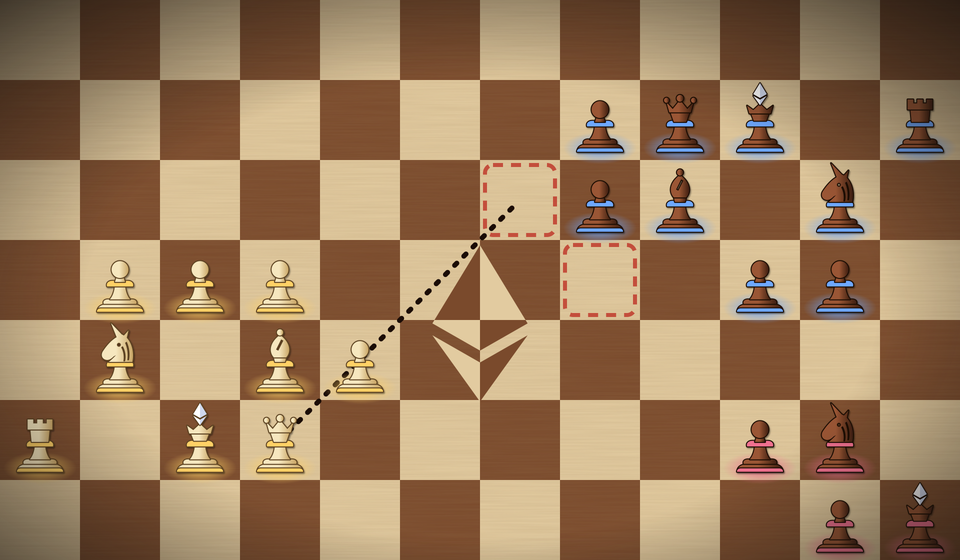
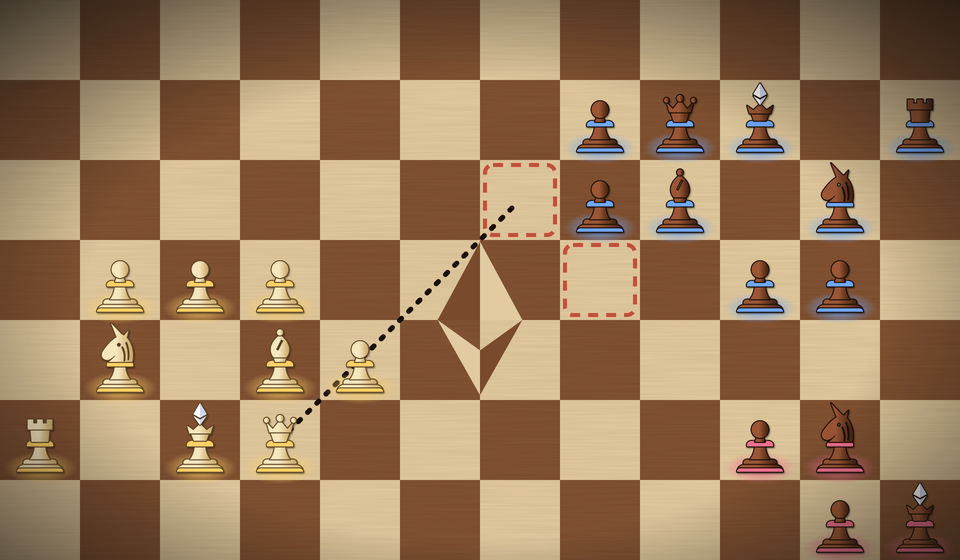
brand: the inlay is four triangles, one per square, as on the Devcon board
The real marquetry is simpler than the facetted logo: a diamond split down the middle over a chevron split the same way, each triangle inside one square and in the opposite wood. Mock, card and landing hero all use the same four triangles now.

Changed region(s): [[0.4375, 0.5464, 0.5625, 0.6982]]

diff --git a/landing/index.html b/landing/index.html
@@ -18,13 +18,11 @@
 	<body>
 		<header class="hero">
 			<div class="board" aria-hidden="true">
-				<!-- The Devcon inlay: the Ethereum logo, upright, across the four squares meeting at the
-				     board's centre, maple where it crosses rosewood and rosewood where it crosses maple. -->
+				<!-- The Devcon inlay: the Ethereum logo as four triangles, one in each of the squares meeting at
+				     the board's centre, maple on rosewood and rosewood on maple. -->
 				<svg class="inlay" viewBox="-1 -1 2 2">
-					<clipPath id="onMaple"><rect x="0" y="-1" width="1" height="1" /><rect x="-1" y="0" width="1" height="1" /></clipPath>
-					<clipPath id="onRosewood"><rect x="-1" y="-1" width="1" height="1" /><rect x="0" y="0" width="1" height="1" /></clipPath>
-					<g clip-path="url(#onMaple)" class="rosewood"><g transform="scale(0.0205) translate(-128 -48)"><path d="M128 4 L155 48 L128 63 L101 48 Z" /><path d="M101 55 L128 70 L155 55 L128 92 Z" /></g></g>
-					<g clip-path="url(#onRosewood)" class="maple"><g transform="scale(0.0205) translate(-128 -48)"><path d="M128 4 L155 48 L128 63 L101 48 Z" /><path d="M101 55 L128 70 L155 55 L128 92 Z" /></g></g>
+					<path class="maple" d="M0.0 -0.98 L-0.53 0.0 L0.0 0.0 Z" /><path class="rosewood" d="M0.0 -0.98 L0.53 0.0 L0.0 0.0 Z" />
+					<path class="rosewood" d="M0.0 0.94 L-0.53 0.0 L0.0 0.38 Z" /><path class="maple" d="M0.0 0.94 L0.53 0.0 L0.0 0.38 Z" />
 				</svg>
 			</div>
 			<nav class="top">

diff --git a/assets/brand/game/pieces.py b/assets/brand/game/pieces.py
@@ -115,6 +115,12 @@ def flat(kind):
 
 
 S = 80
+INLAY = {
+    'tl': [(0, -0.98), (-0.53, 0), (0, 0)],
+    'tr': [(0, -0.98), (0.53, 0), (0, 0)],
+    'bl': [(0, 0.94), (-0.53, 0), (0, 0.38)],
+    'br': [(0, 0.94), (0.53, 0), (0, 0.38)],
+}
 LIGHT, DARK = '#e2cba0', '#7a4a2c'  # maple and rosewood, sampled from the Devcon board
 YOU, THEM, THIRD = '#ffd166', '#6ea8ff', '#ef6f8f'
 
@@ -126,16 +132,17 @@ def board(cols, rows, origin=None):
             out.append(f'<rect x="{c*S}" y="{r*S}" width="{S}" height="{S}" fill="{LIGHT if (r+c)%2==0 else DARK}"/>')
     out.append(f'<rect width="{cols*S}" height="{rows*S}" filter="url(#grain)"/>')
     if origin:
+        # The Devcon inlay, as on the board: four triangles, one per square
+        # around the corner where they meet, each in the opposite wood to its
+        # square (inverted marquetry). Square units relative to the corner,
+        # logo upright: a diamond split down the middle over a chevron.
         OX, OY = origin
-        LOGO = ''.join(f'<path d="{d}"/>' for d in PRISM)
-        place = f'translate({OX} {OY}) scale(1.7) translate(-128 -48)'
-        four = [(OX - S, OY - S), (OX, OY - S), (OX - S, OY), (OX, OY)]
-        light = lambda p: ((p[0] // S) + (p[1] // S)) % 2 == 0
-        sq = lambda p: f'<rect x="{p[0]}" y="{p[1]}" width="{S}" height="{S}"/>'
-        out.append('<clipPath id="onLight">' + ''.join(sq(p) for p in four if light(p)) + '</clipPath>')
-        out.append('<clipPath id="onDark">' + ''.join(sq(p) for p in four if not light(p)) + '</clipPath>')
-        out.append(f'<g clip-path="url(#onLight)"><g transform="{place}" fill="{DARK}">{LOGO}</g></g>')
-        out.append(f'<g clip-path="url(#onDark)"><g transform="{place}" fill="{LIGHT}">{LOGO}</g></g>')
+        tris = {(-1, -1): INLAY['tl'], (0, -1): INLAY['tr'], (-1, 0): INLAY['bl'], (0, 0): INLAY['br']}
+        for (dc, dr), pts in tris.items():
+            c, r = OX // S + dc, OY // S + dr
+            wood = DARK if (r + c) % 2 == 0 else LIGHT
+            path = 'M' + ' L'.join(f'{OX + x * S:.1f} {OY + y * S:.1f}' for x, y in pts) + ' Z'
+            out.append(f'<path d="{path}" fill="{wood}"/>')
     return out
 
 

diff --git a/assets/brand/game/README.md b/assets/brand/game/README.md
@@ -14,7 +14,7 @@ The Devcon swag board (photographed at the event):
 
 - **Woods.** Maple light squares and reddish rosewood dark squares, in a darker rosewood frame with a thin maple stripe. The pieces are turned Staunton shapes in pale boxwood against dark sheesham.
 - **Unicorn knights**, with a carved mane. The king has a pointed, faceted finial: the prism.
-- **The inlay is the Ethereum logo** across the four centre squares, in **inverted marquetry**: maple where it crosses a rosewood square, rosewood where it crosses a maple one. On the real board it's upright from each player's seat (they sit on either side). A screen has one viewpoint, so the game draws it upright.
+- **The inlay is the Ethereum logo as just four triangles**, one in each of the four centre squares (a diamond split down the middle, over a chevron split the same way), in **inverted marquetry**: maple where it crosses a rosewood square, rosewood where it crosses a maple one. On the real board it's upright from each player's seat (they sit on either side). A screen has one viewpoint, so the game draws it upright.
 
 The mock uses colours sampled from those photos. The pieces share the logo's construction (one base, stem and collar for the whole set, only the top changes), so the game and the brand read as one thing.
 
@@ -26,7 +26,7 @@ The mock uses colours sampled from those photos. The pieces share the logo's con
 
 1. **The piece set** (about 2 hours). Turned Staunton shapes like the Devcon set: a domed foot, a bead ring, a concave stem and a collar shared by every piece, and only the top changes (the king's finial is the prism, the knight is the unicorn). Replace `glyphOf` with the paths in `pieces.py` (also exported as `pieces/*.svg` and the `pieces.svg` sprite). Each piece is a list of parts with a role (`wood`, `band`, `prism`), so the renderer fills `wood` with the wood's left-to-right gradient (it's what makes the pieces look turned), `band` with the army colour and `prism` with the crystal. Canvas 2D takes SVG path strings directly through `new Path2D(d)`, so there's no image loading. Draw each piece in its wood (see 4) with a dark outline (stroke first, then fill), and cache one bitmap per (kind, colour, zoom bucket) in an `OffscreenCanvas` so a crowded viewport costs one `drawImage` per piece. Keep the glyph as the fallback below `MIN_GLYPH_SCALE`, where a dot is enough anyway.
 2. **A wooden board** (about 1 hour). Maple `#e2cba0` and rosewood `#7a4a2c` squares instead of the 5% white grid, with a faint grain pattern (`createPattern` from a small noise tile) and a vignette at the screen edges. Highlights stay as they are, but the planned-move green and the collision red need checking for contrast on maple.
-3. **The Ethereum inlay at the centre of the world** (about 30 minutes). Squares are centred on integer coordinates, so the four squares (-1,-1), (0,-1), (-1,0) and (0,0) meet at the point (-0.5,-0.5). Draw the logo there upright, under the pieces, twice: once in maple clipped to the two rosewood squares and once in rosewood clipped to the two maple squares. That's the inverted marquetry of the Devcon board, and `pieces.py` does exactly this for the mock. On an infinite board it gives everyone a landmark, and the minimap can show it too.
+3. **The Ethereum inlay at the centre of the world** (about 30 minutes). Squares are centred on integer coordinates, so the four squares (-1,-1), (0,-1), (-1,0) and (0,0) meet at the point (-0.5,-0.5). Draw the four triangles there (`INLAY` in `pieces.py`, in square units relative to the corner), each filled with the opposite wood to the square it sits in. That's the inverted marquetry of the Devcon board, and needs no clipping because each triangle lies inside one square. On an infinite board it gives everyone a landmark, and the minimap can show it too.
 4. **Boxwood for you, sheesham for everyone else, the army colour painted on** (30 minutes). The question a player asks most is "is that mine?", and two woods answer it at a glance, exactly as on the real board. *Which* army a piece belongs to shows in three places, from the piece outwards:
    - a painted **collar band** (the `band` part of the collar),
    - the **felt pad** under the foot, as on real pieces (also a `band` part),

diff --git a/assets/brand/README.md b/assets/brand/README.md
@@ -31,7 +31,7 @@ The build first checks that the prism and the king have the same path data in `l
 - **Crown points, not a cup.** A flared cup under the prism reads as a torch or a trophy (see `concepts/r1`). The three crown points are what make it a king.
 - **The wordmark is Cinzel 700, solved to an ink width of 620px on the card** (67.7px nominal) and outlined. The tagline is Cinzel 400 at 32px on two lines, one sentence per line. If you change the copy, re-solve the size against the ink width (see the branding notes in the build script history) rather than eyeballing it.
 - **`currentColor` is restored after outlining.** Inkscape resolves it to a hex while converting text to paths, and the build puts it back so one lockup serves light and dark.
-- **The card's background**: a checkerboard fading out to the edges (the board has no edges), a gold glow, and the Devcon board's inlay: the Ethereum logo, upright, across the four squares meeting at (1080, 480), in **inverted marquetry** (light where it crosses a dark square and the reverse). The landing hero repeats it in the real woods (maple `#e2cba0`, rosewood `#7a4a2c`).
+- **The card's background**: a checkerboard fading out to the edges (the board has no edges), a gold glow, and the Devcon board's inlay: the Ethereum logo as four triangles, one in each square meeting at (1080, 480), each in the opposite tone to its square (**inverted marquetry**), exactly as on the real board. The landing hero repeats it in the real woods (maple `#e2cba0`, rosewood `#7a4a2c`).
 
 ## Directions tried and dropped
 
